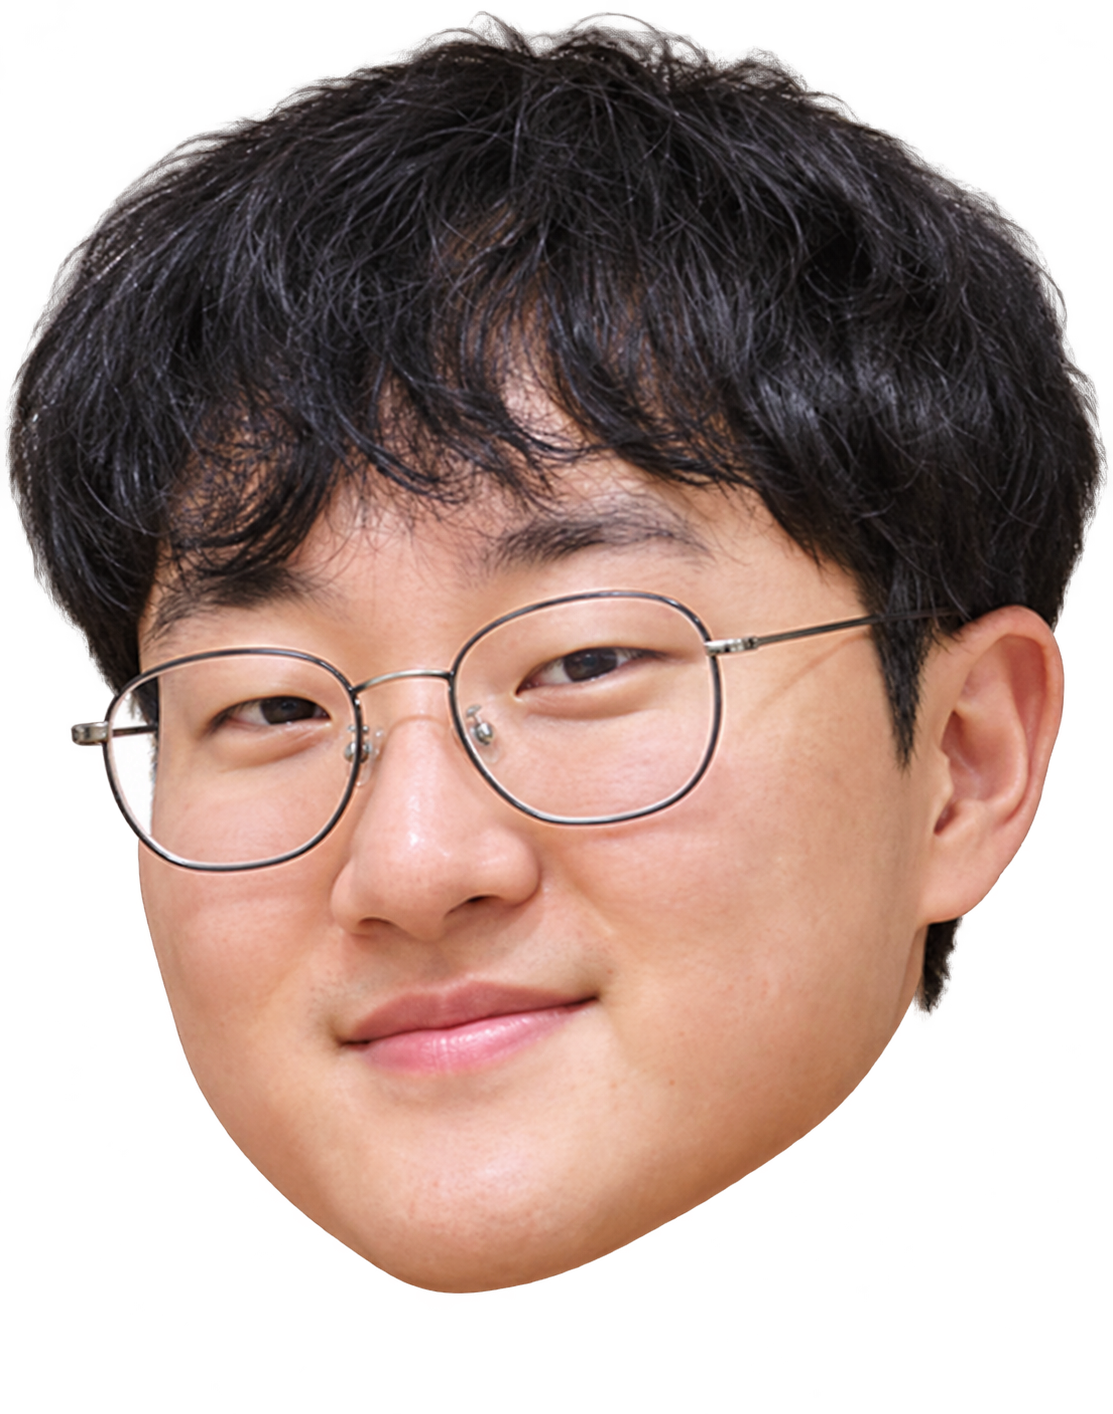
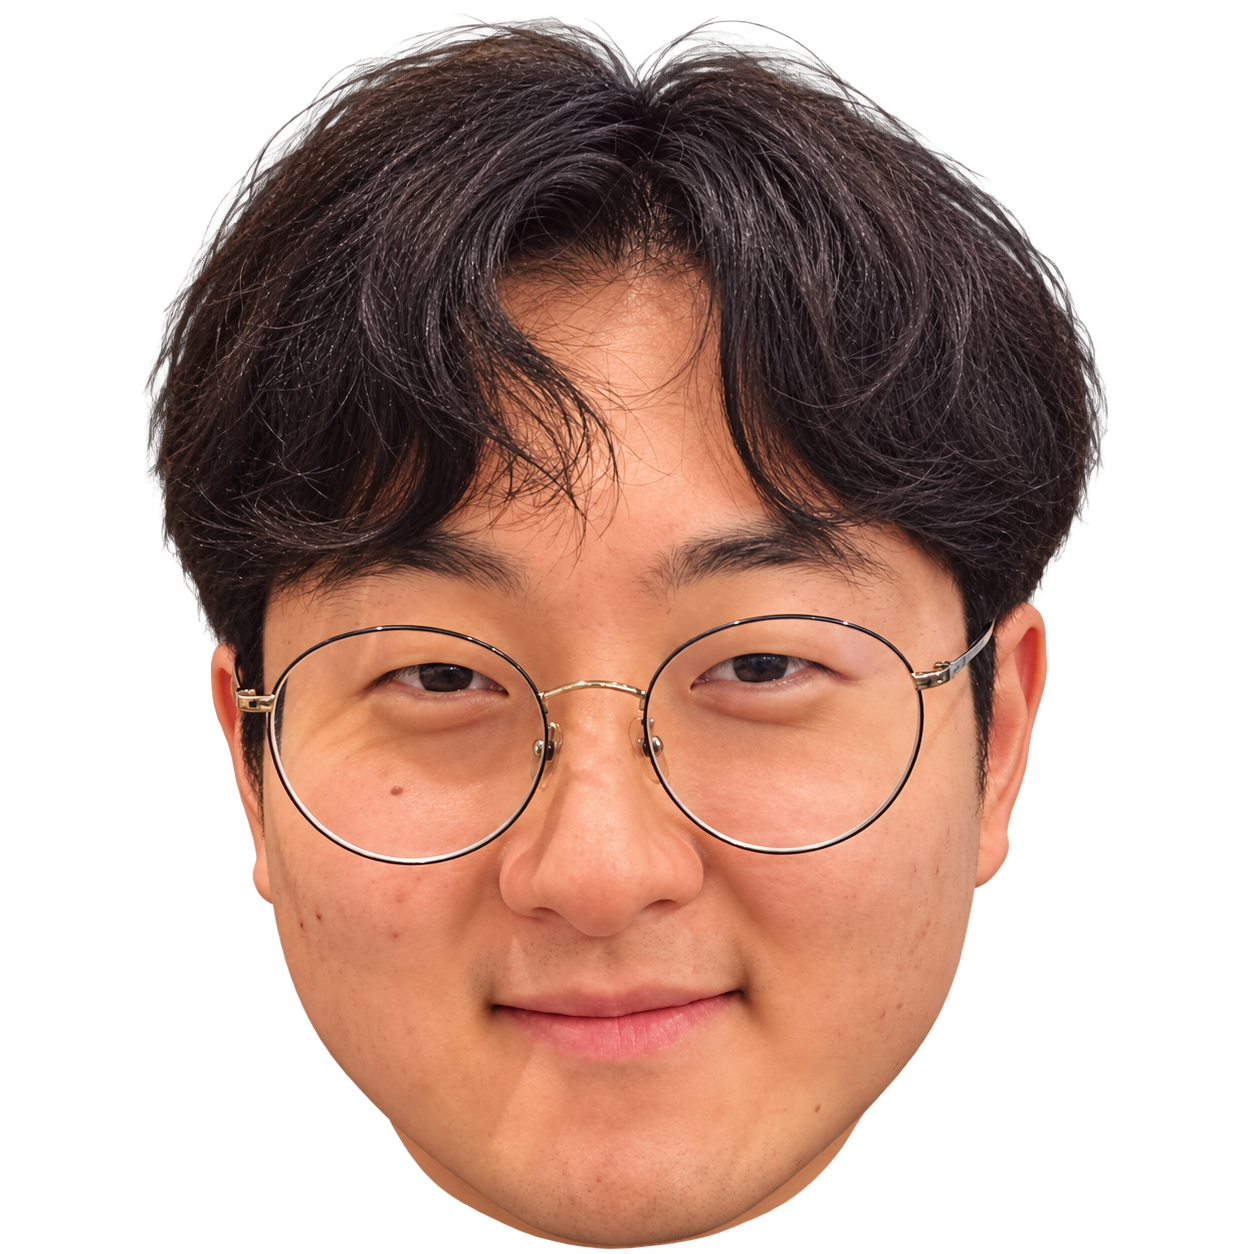
Replace Jongryeong portrait and remove racket ultimates

diff --git a/docs/gameplay.md b/docs/gameplay.md
@@ -21,7 +21,7 @@
 | 상대 **쇼트(블록)** 에 아래로 긋기 | **커트**로 넘기기 · PERFECT면 낮고 깔끔하게, 아니면 공이 떠서 상대 찬스볼 |
 | 상대 **드라이브**에 타이밍 맞춰 탭 | **블록(쇼트)** 으로 막기 |
 | 라켓을 공보다 **낮게** 대고 기다리기 → 위로 긋기 | **드라이브** (낮게 기다리는 건 스매시가 아니라 드라이브 준비) |
-| 필살기 게이지 100% 후 다음 타격 | 라켓별 필살기 (자동 발동) |
+| 필살기 게이지 100% 후 다음 타격 | 상황에 맞는 장착 필살기 (자동 발동) |
 | 내 서브 차례: 탭으로 토스 → 떨어질 때 스윙 | 서브 (방향으로 회전 결정) |
 | `Space` | 일시정지 |
 | `처음 화면` | 현재 경기를 끝내고 라켓·난이도 설정으로 돌아가기 |
@@ -129,16 +129,9 @@
 | 일본식 펜홀더 | 네모난 헤드, 코르크 손잡이 | 0.9 | 1.18 | **포핸드 강타**: 포핸드 드라이브 속도 ×1.25 |
 | 수비수 라켓 | 크고 넓은 면, 포핸드(검정) 민러버 + 백핸드(빨강) **롱핌플**(오돌토돌한 이질러버, 스펀지 없는 OX) | 1.2 | 0.85 | **수비 특화**: 스윙은 강한 커트(CHOP) · 드라이브 · 스매시는 **PERFECT 커트**로만 방어 (PERFECT 범위 65%로 좁음) · 뜬 공(찬스볼)은 **스윙하면 자동 스매시** · 탭 쇼트 가능 |
 
-### 라켓별 필살기
+### 장착 필살기
 
-게이지가 100%가 되면 다음 타격에 자동으로 발동합니다.
-
-| 라켓 | 필살기 | 효과 | 꼬리 색 |
-|---|---|---|---|
-| 쉐이크핸드 | **초승달 드라이브** | 강한 옆회전으로 바깥쪽으로 빠지는 듯하다가 크게(약 45cm) 휘어 반대쪽 코너에 꽂히는 드라이브 | 분홍 |
-| 중국식 펜홀더 | **번개 속공** | 네트를 낮게 스치며 같은 쪽 코너로 꽂히는 초고속 직선 | 하늘 |
-| 일본식 펜홀더 | **천둥 스매시** | 가장 빠른 일격, 상대 코트 끝 구석을 강타 | 노랑 |
-| 수비수 라켓 | **유령 커트** | 둥실 떠서 네트 앞에 툭 떨어지는 초강력 하회전 | 보라 |
+라켓에는 기본 필살기가 없습니다. 게이지가 100%가 되면 스킬트리에서 장착한 기술 중 현재 공의 상황에 맞는 기술이 자동으로 발동합니다. 장착한 기술이 없거나 상황에 맞는 기술이 없으면 게이지는 유지됩니다.
 
 ## 쉐이크핸드 목판 · 러버
 

diff --git a/README.md b/README.md
@@ -54,7 +54,7 @@
 - 56개 필살기 모두가 발동 순간의 임팩트와 함께 필살기 색 궤적을 남기며 날아갑니다. 공 주변에는 기술 성격에 맞는 회전·링·번개·꽃잎·불꽃·운석 등의 움직이는 입자가 붙습니다.
 
 ### v4.47 — 멀티 필살기 티어별 터치 수 · 2026-10-22
-- 온라인 대전에서 상대가 필살기를 쓰면 **필살기 티어에 따라 받아야 하는 터치 수**가 늘어요: **1~2티어 투터치 · 3~5티어 쓰리터치 · 6~8티어 포터치** (라켓 기본 필살기는 투터치)
+- 온라인 대전에서 상대가 필살기를 쓰면 **필살기 티어에 따라 받아야 하는 터치 수**가 늘어요: **1~2티어 투터치 · 3~5티어 쓰리터치 · 6~8티어 포터치**
 - 받는 쪽 화면에 상대 필살기 이름 · 티어 · 필요한 터치(① ② ③ ④) 안내 + 상대 얼굴 컷인
 - 필살기 정보가 온라인으로 함께 전달되도록 수정 (호스트 · 게스트 모두)
 

diff --git a/docs/skill-tree.md b/docs/skill-tree.md
@@ -25,7 +25,7 @@
 
 ## 필살기 (56종)
 
-필살기 게이지가 100%가 되면 다음 타격에서 **상대 공의 종류에 맞는 장착 필살기**가 자동으로 나가요. 맞는 게 없으면 "언제든" 필살기, 그것도 없으면 라켓 기본 필살기가 나가요.
+필살기 게이지가 100%가 되면 다음 타격에서 **상대 공의 종류에 맞는 장착 필살기**가 자동으로 나가요. 맞는 게 없으면 "언제든" 필살기가 나가며, 장착 기술이 없으면 게이지는 유지됩니다.
 
 - 메인 화면 **🌟 스킬트리 · 필살기** → 위쪽 탭으로 스킬트리 ↔ 필살기 전환
 - 캐릭터 선택 → 스킬트리 → **필살기 선택 창**이 이어서 떠요
